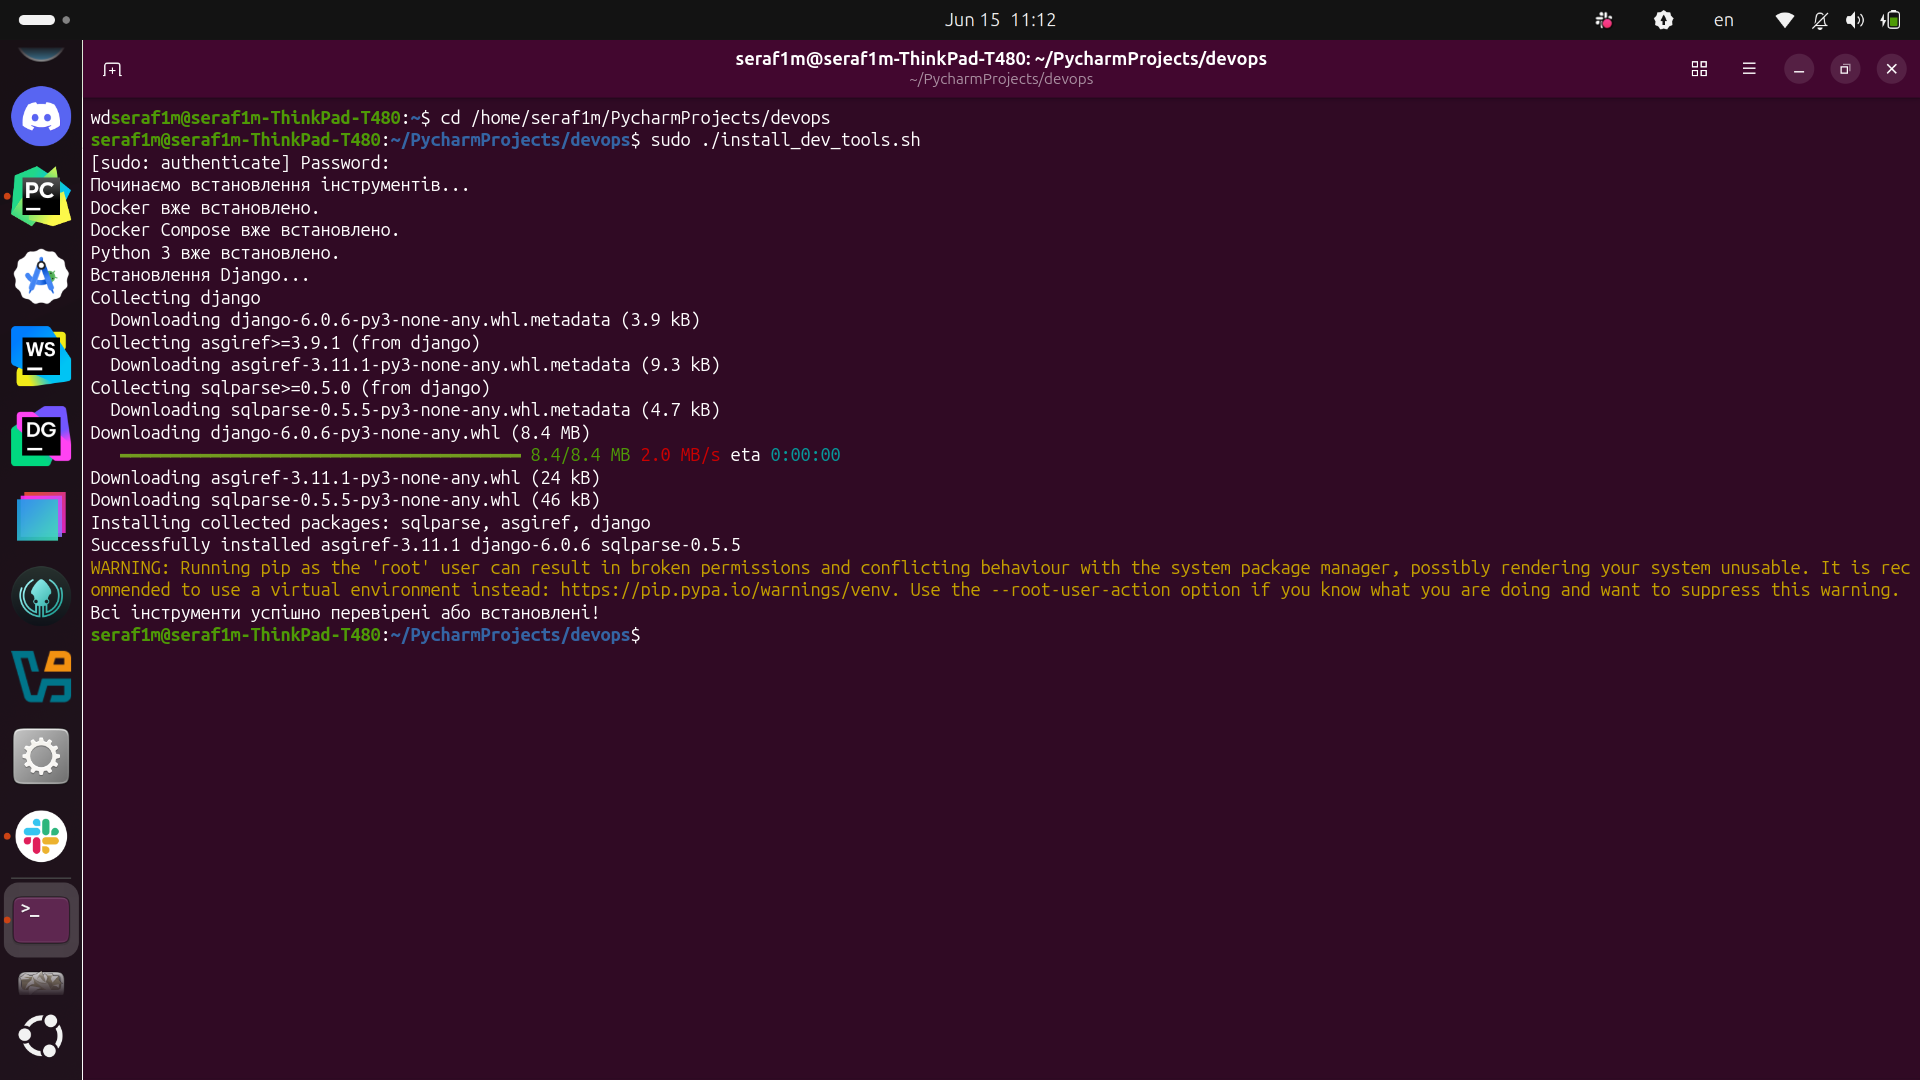
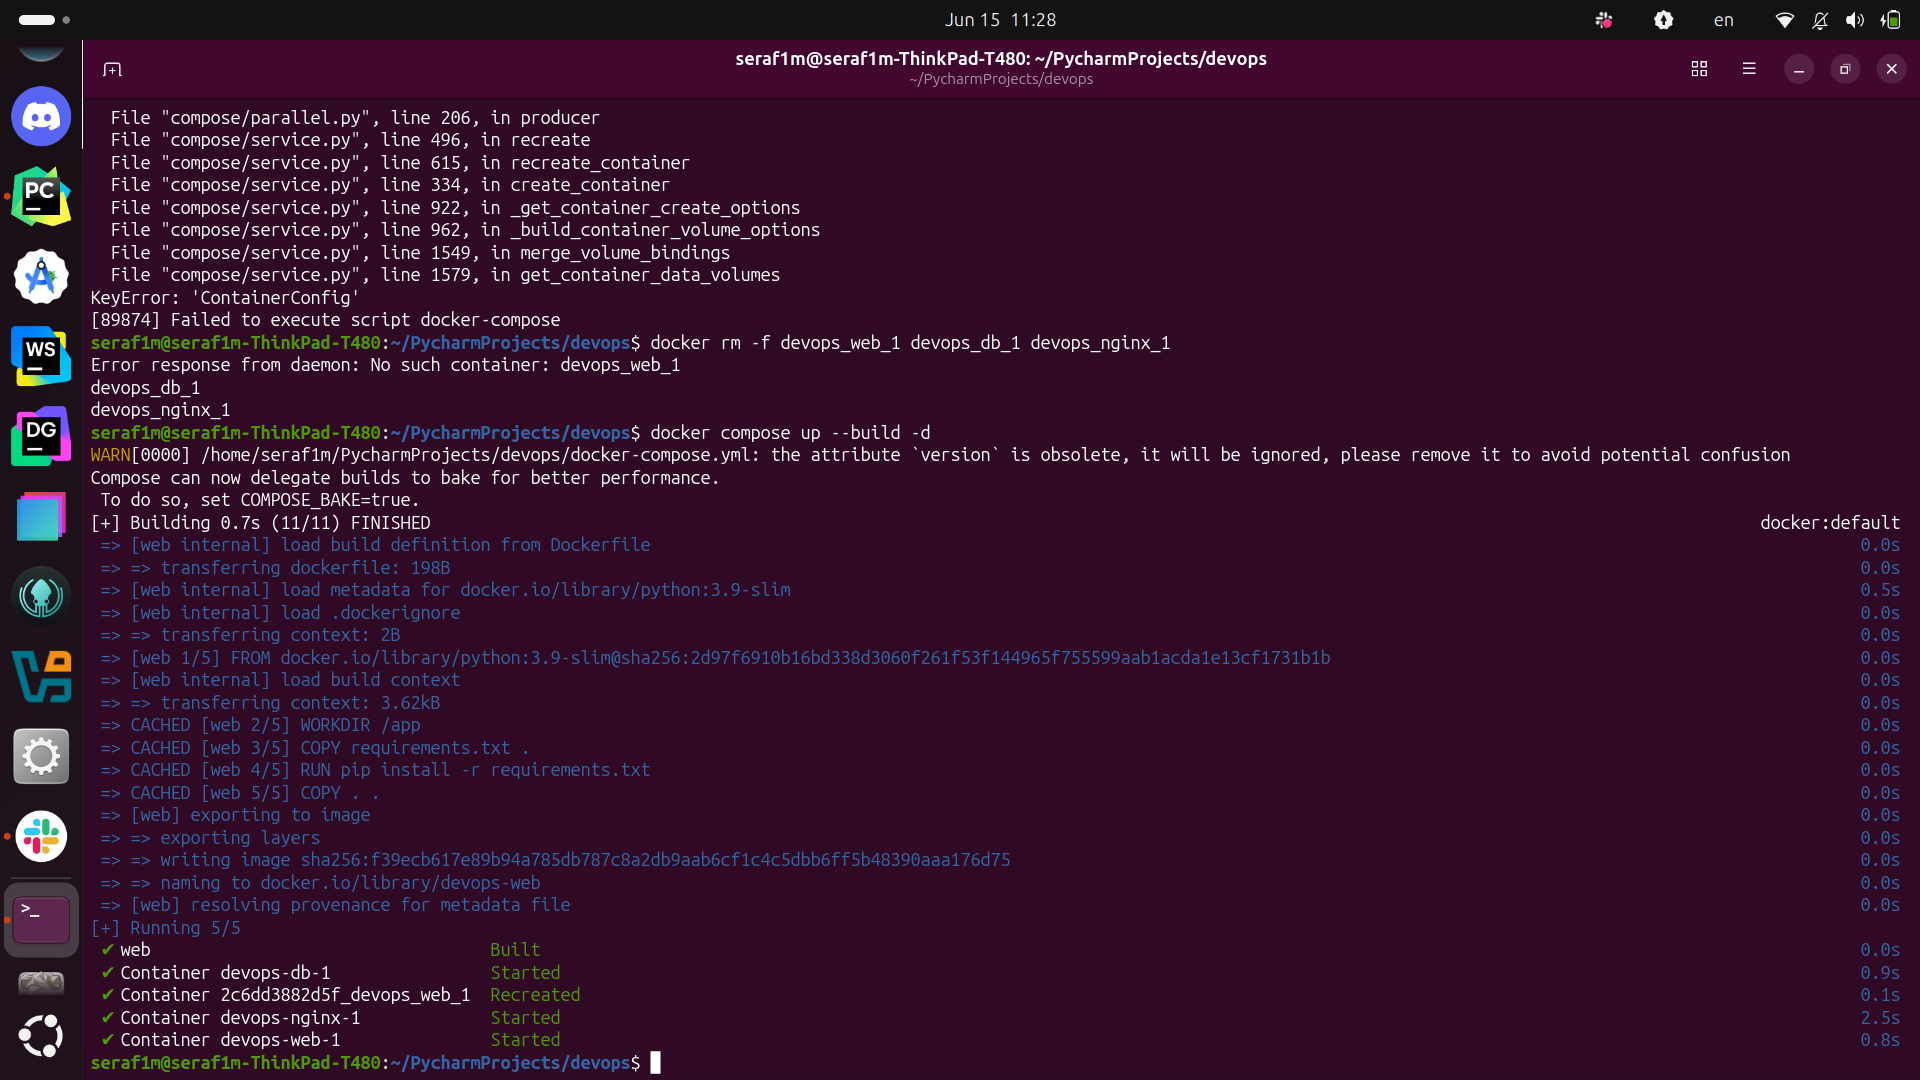
hm 4

diff --git a/homework4/settings.py b/homework4/settings.py
@@ -1,0 +1,75 @@
+from pathlib import Path
+
+BASE_DIR = Path(__file__).resolve().parent.parent
+
+SECRET_KEY = 'django-insecure-mock-key-for-dev-purposes-only'
+
+DEBUG = True
+
+ALLOWED_HOSTS = ['*']
+
+INSTALLED_APPS = [
+    'django.contrib.admin',
+    'django.contrib.auth',
+    'django.contrib.contenttypes',
+    'django.contrib.sessions',
+    'django.contrib.messages',
+    'django.contrib.staticfiles',
+]
+
+MIDDLEWARE = [
+    'django.middleware.security.SecurityMiddleware',
+    'django.contrib.sessions.middleware.SessionMiddleware',
+    'django.middleware.common.CommonMiddleware',
+    'django.middleware.csrf.CsrfViewMiddleware',
+    'django.contrib.auth.middleware.AuthenticationMiddleware',
+    'django.contrib.messages.middleware.MessageMiddleware',
+    'django.middleware.clickjacking.XFrameOptionsMiddleware',
+]
+
+ROOT_URLCONF = 'homework4.urls'
+
+TEMPLATES = [
+    {
+        'BACKEND': 'django.template.backends.django.DjangoTemplates',
+        'DIRS': [],
+        'APP_DIRS': True,
+        'OPTIONS': {
+            'context_processors': [
+                'django.template.context_processors.debug',
+                'django.template.context_processors.request',
+                'django.contrib.auth.context_processors.auth',
+                'django.contrib.messages.context_processors.messages',
+            ],
+        },
+    },
+]
+
+WSGI_APPLICATION = 'homework4.wsgi.application'
+
+DATABASES = {
+    'default': {
+        'ENGINE': 'django.db.backends.postgresql',
+        'NAME': 'dbname',
+        'USER': 'user',
+        'PASSWORD': 'password',
+        'HOST': 'db',
+        'PORT': '5432',
+    }
+}
+
+AUTH_PASSWORD_VALIDATORS = [
+    {'NAME': 'django.contrib.auth.password_validation.UserAttributeSimilarityValidator'},
+    {'NAME': 'django.contrib.auth.password_validation.MinimumLengthValidator'},
+    {'NAME': 'django.contrib.auth.password_validation.CommonPasswordValidator'},
+    {'NAME': 'django.contrib.auth.password_validation.NumericPasswordValidator'},
+]
+
+LANGUAGE_CODE = 'en-us'
+TIME_ZONE = 'UTC'
+USE_I18N = True
+USE_L10N = True
+USE_TZ = True
+
+STATIC_URL = '/static/'
+DEFAULT_AUTO_FIELD = 'django.db.models.BigAutoField'

diff --git a/manage.py b/manage.py
@@ -1,0 +1,18 @@
+#!/usr/bin/env python
+import os
+import sys
+
+def main():
+    os.environ.setdefault('DJANGO_SETTINGS_MODULE', 'homework4.settings')
+    try:
+        from django.core.management import execute_from_command_line
+    except ImportError as exc:
+        raise ImportError(
+            "Couldn't import Django. Are you sure it's installed and "
+            "available on your PYTHONPATH environment variable? Did you "
+            "forget to activate a virtual environment?"
+        ) from exc
+    execute_from_command_line(sys.argv)
+
+if __name__ == '__main__':
+    main()

diff --git a/homework4/asgi.py b/homework4/asgi.py
@@ -1,0 +1,5 @@
+import os
+from django.core.asgi import get_asgi_application
+
+os.environ.setdefault('DJANGO_SETTINGS_MODULE', 'homework4.settings')
+application = get_asgi_application()

diff --git a/homework4/wsgi.py b/homework4/wsgi.py
@@ -1,0 +1,5 @@
+import os
+from django.core.wsgi import get_wsgi_application
+
+os.environ.setdefault('DJANGO_SETTINGS_MODULE', 'homework4.settings')
+application = get_wsgi_application()

diff --git a/homework4/urls.py b/homework4/urls.py
@@ -1,0 +1,6 @@
+from django.contrib import admin
+from django.urls import path
+
+urlpatterns = [
+    path('admin/', admin.site.urls),
+]
